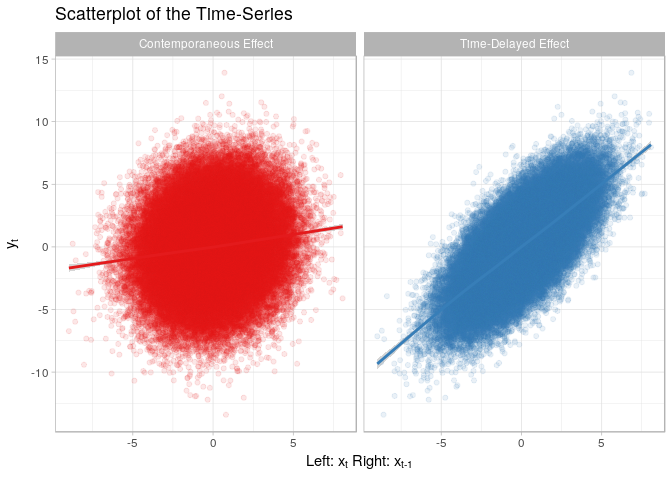
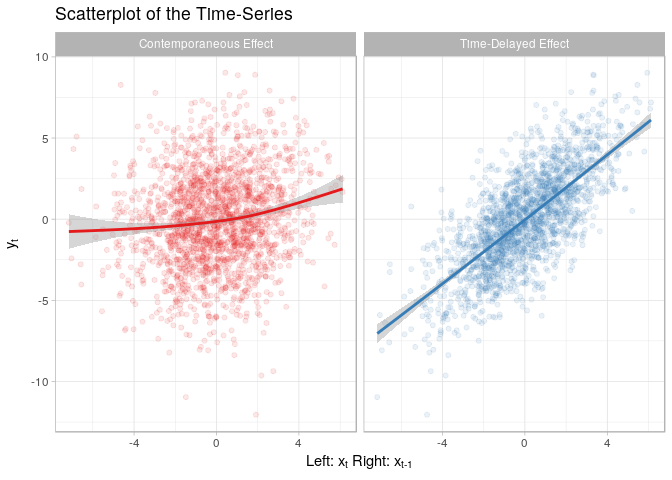
updated readme

diff --git a/README.md b/README.md
@@ -24,8 +24,12 @@ Simulate a simple model to obtain two time series that are not independent (see 
 
 ``` r
 library(RTransferEntropy)
+library(future)
+# enable parallel processing
+plan(multisession)
+
 set.seed(20180108)
-n <- 100000
+n <- 2000
 x <- rep(0, n + 1)
 y <- rep(0, n + 1)
 
@@ -58,9 +62,6 @@ ggplot(df, aes(x = x, y = y, color = grp)) +
   labs(x = TeX("Left: x_t Right: x_{t-1}"), y = TeX("y_t"), 
        title = "Scatterplot of the Time-Series") +
   scale_color_brewer(palette = "Set1", guide = F)
-#> `geom_smooth()` using method = 'gam'
-#> Warning: Removed 1 rows containing non-finite values (stat_smooth).
-#> Warning: Removed 1 rows containing missing values (geom_point).
 ```
 
 ![](README-contemp_plot-1.png)
@@ -69,106 +70,141 @@ ggplot(df, aes(x = x, y = y, color = grp)) +
 
 ``` r
 set.seed(20180108 + 1)
-n_cores <- parallel::detectCores() - 1
 
-shannon_te <- transfer_entropy(x = x,
-                               y = y,
-                               lx = 1,
-                               ly = 1,
-                               nboot = n_cores,
-                               cl = n_cores)
-#> Calculating Shannon's entropy on 7 cores with 6 shuffle(s) and 7 bootstrap(s)
-#> The timeseries have length 100000 (0 NAs removed)
-#> Calculate the X->Y transfer entropy
-#> Calculate the Y->X transfer entropy
-#> Bootstrap the transfer entropies
-#> Done - Total time 14.25 seconds
-
-shannon_te
+(shannon_te <- transfer_entropy(x = x, y = y))
+#> Shannon's entropy on 8 cores with 100 shuffles. The timeseries have length 2000 (0 NAs removed)
+#>   [calculate] X->Y transfer entropy
+#>   [calculate] Y->X transfer entropy
+#>   [bootstrap] 300 times
+#> Done - Total time 7.54 seconds
 #> Shannon Transfer Entropy Results:
 #> -----------------------------------------------------------------
 #>  Direction          TE     Eff. TE    Std.Err.     p-value    sig
 #> -----------------------------------------------------------------
-#>       X->Y      0.0969      0.0968      0.0000      0.0000    ***
-#>       Y->X      0.0001      0.0000      0.0000      1.0000       
+#>       X->Y      0.1245      0.1213      0.0015      0.0000    ***
+#>       Y->X      0.0020      0.0000      0.0016      0.8433       
 #> -----------------------------------------------------------------
-#> Bootstrapped TE Quantiles (7 replications):
+#> Bootstrapped TE Quantiles (300 replications):
 #> -----------------------------------------------------------------
 #> Direction        0%       25%       50%       75%      100%
 #> -----------------------------------------------------------------
-#>     X->Y    0.0001    0.0001    0.0001    0.0001    0.0001
-#>     Y->X    0.0001    0.0001    0.0001    0.0001    0.0001
+#>     X->Y    0.0008    0.0023    0.0031    0.0043    0.0107
+#>     Y->X    0.0005    0.0021    0.0029    0.0039    0.0095
 #> -----------------------------------------------------------------
-#> Number of Observations: 100000
+#> Number of Observations: 2000
 #> -----------------------------------------------------------------
-#> p-values: < 0.001 ‘***’, < 0.01 ‘**’, < 0.05 ‘*’, < 0.1 ‘.’
+#> p-values: < 0.001 '***', < 0.01 '**', < 0.05 '*', < 0.1 '.'
+```
+
+Alternatively, you can only calculate the transfer entropy or the effective transfer entropy with
+
+``` r
+calc_te(x, y)
+#> [1] 0.1244709
+calc_te(y, x)
+#> [1] 0.002038284
+
+calc_ete(x, y)
+#> [1] 0.1211241
+calc_ete(y, x)
+#> [1] -0.001310745
 ```
 
 ### Renyi Transfer Entropy
 
 ``` r
 set.seed(20180108 + 1)
-n_cores <- parallel::detectCores() - 1
 
-renyi_te <- transfer_entropy(x = x,
-                             y = y,
-                             lx = 1,
-                             ly = 1,
-                             entropy = "renyi",
-                             q = 0.5,
-                             nboot = n_cores,
-                             cl = n_cores)
-#> Calculating Renyi's entropy on 7 cores with 6 shuffle(s) and 7 bootstrap(s)
-#> The timeseries have length 100000 (0 NAs removed)
-#> Calculate the X->Y transfer entropy
-#> Calculate the Y->X transfer entropy
-#> Bootstrap the transfer entropies
-#> Done - Total time 14.19 seconds
-
-renyi_te
+(renyi_te <- transfer_entropy(x = x, y = y, entropy = "renyi", q = 0.5))
+#> Renyi's entropy on 8 cores with 100 shuffles. The timeseries have length 2000 (0 NAs removed)
+#>   [calculate] X->Y transfer entropy
+#>   [calculate] Y->X transfer entropy
+#>   [bootstrap] 300 times
+#> Done - Total time 6.85 seconds
 #> Renyi Transfer Entropy Results:
 #> -----------------------------------------------------------------
 #>  Direction          TE     Eff. TE    Std.Err.     p-value    sig
 #> -----------------------------------------------------------------
-#>       X->Y      0.0861      0.0836      0.0010      0.0000    ***
-#>       Y->X      0.0003      0.0000      0.0007      1.0000       
+#>       X->Y      0.0852      0.0421      0.0213      0.0233      *
+#>       Y->X      0.0276      0.0000      0.0225      0.7000       
 #> -----------------------------------------------------------------
-#> Bootstrapped TE Quantiles (7 replications):
+#> Bootstrapped TE Quantiles (300 replications):
 #> -----------------------------------------------------------------
 #> Direction        0%       25%       50%       75%      100%
 #> -----------------------------------------------------------------
-#>     X->Y    0.0004    0.0013    0.0016    0.0020    0.0024
-#>     Y->X   -0.0013   -0.0000    0.0005    0.0010    0.0020
+#>     X->Y   -0.0188    0.0248    0.0408    0.0538    0.1164
+#>     Y->X   -0.0111    0.0288    0.0414    0.0558    0.1436
 #> -----------------------------------------------------------------
-#> Number of Observations: 100000
+#> Number of Observations: 2000
 #> Q: 0.5
 #> -----------------------------------------------------------------
-#> p-values: < 0.001 ‘***’, < 0.01 ‘**’, < 0.05 ‘*’, < 0.1 ‘.’
+#> p-values: < 0.001 '***', < 0.01 '**', < 0.05 '*', < 0.1 '.'
+
+calc_te(x, y, entropy = "renyi", q = 0.5)
+#> [1] 0.08515726
+calc_te(y, x, entropy = "renyi", q = 0.5)
+#> [1] 0.02758021
+
+calc_ete(x, y, entropy = "renyi", q = 0.5)
+#> [1] 0.04324357
+calc_ete(y, x, entropy = "renyi", q = 0.5)
+#> [1] -0.01225754
 ```
 
-Efficient Programming
-=====================
-
-If you know that you will call the function multiple times, you can outsource the cluster creation, i.e., the following code will save you a lot of time
+If you want to turn-off all feedback from functions, you can do so by using `set_quiet(TRUE)`
 
 ``` r
-mycl <- parallel::makeCluster(parallel::detectCores() - 1)
+set_quiet(TRUE)
+te <- transfer_entropy(x, y)
+te
+#> Shannon Transfer Entropy Results:
+#> -----------------------------------------------------------------
+#>  Direction          TE     Eff. TE    Std.Err.     p-value    sig
+#> -----------------------------------------------------------------
+#>       X->Y      0.1245      0.1212      0.0014      0.0000    ***
+#>       Y->X      0.0020      0.0000      0.0014      0.8300       
+#> -----------------------------------------------------------------
+#> Bootstrapped TE Quantiles (300 replications):
+#> -----------------------------------------------------------------
+#> Direction        0%       25%       50%       75%      100%
+#> -----------------------------------------------------------------
+#>     X->Y    0.0009    0.0024    0.0031    0.0040    0.0096
+#>     Y->X    0.0004    0.0023    0.0029    0.0039    0.0088
+#> -----------------------------------------------------------------
+#> Number of Observations: 2000
+#> -----------------------------------------------------------------
+#> p-values: < 0.001 '***', < 0.01 '**', < 0.05 '*', < 0.1 '.'
+# revert back with
+set_quiet(FALSE)
+```
 
-# stop the cluster when the whole programm exits
-# on.exit({parallel::stopCluster(mycl)}, add = T)
+Parallel Programming
+====================
 
-te <- transfer_entropy(x, y, nboot = length(mycl), cl = mycl)
-#> Calculating Shannon's entropy on 7 cores with 6 shuffle(s) and 7 bootstrap(s)
-#> The timeseries have length 100000 (0 NAs removed)
-#> Calculate the X->Y transfer entropy
-#> Calculate the Y->X transfer entropy
-#> Bootstrap the transfer entropies
-#> Done - Total time 13.6 seconds
-te <- transfer_entropy(x, y, nboot = length(mycl), entropy = "renyi", cl = mycl)
-#> Calculating Renyi's entropy on 7 cores with 6 shuffle(s) and 7 bootstrap(s)
-#> The timeseries have length 100000 (0 NAs removed)
-#> Calculate the X->Y transfer entropy
-#> Calculate the Y->X transfer entropy
-#> Bootstrap the transfer entropies
-#> Done - Total time 12.27 seconds
+Using `future`s plans we can execute all computations in parallel like so
+
+``` r
+library(future)
+plan(multisession)
+te <- transfer_entropy(x, y)
+#> Shannon's entropy on 8 cores with 100 shuffles. The timeseries have length 2000 (0 NAs removed)
+#>   [calculate] X->Y transfer entropy
+#>   [calculate] Y->X transfer entropy
+#>   [bootstrap] 300 times
+#> Done - Total time 7.15 seconds
+te <- transfer_entropy(x, y, entropy = "renyi", q = 0.5)
+#> Renyi's entropy on 8 cores with 100 shuffles. The timeseries have length 2000 (0 NAs removed)
+#>   [calculate] X->Y transfer entropy
+#>   [calculate] Y->X transfer entropy
+#>   [bootstrap] 300 times
+#> Done - Total time 7.01 seconds
+
+# revert to sequential mode
+plan(sequential)
+te <- transfer_entropy(x, y, nboot = 100)
+#> Shannon's entropy on 1 core with 100 shuffles. The timeseries have length 2000 (0 NAs removed)
+#>   [calculate] X->Y transfer entropy
+#>   [calculate] Y->X transfer entropy
+#>   [bootstrap] 100 times
+#> Done - Total time 8.95 seconds
 ```
